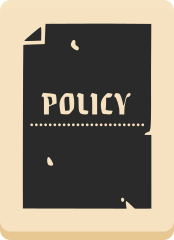
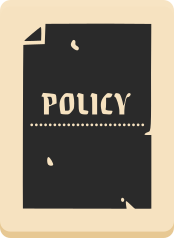
Fixed several small bugs -Fixed bug where executing the next president after a special election would still allow them to choose a chancellor -Fixed bug where the Investigation Prompt was not shown correctly -Decreased height of the Policy Back image

diff --git a/secret-hitler-online-interface/src/App.js b/secret-hitler-online-interface/src/App.js
@@ -62,7 +62,7 @@ import {
     STATE_LIBERAL_VICTORY_EXECUTION,
     STATE_LIBERAL_VICTORY_POLICY,
     PARAM_PEEK,
-    PARAM_INVESTIGATION, HITLER
+    PARAM_INVESTIGATION, HITLER, PARAM_DRAW_DECK, PARAM_DISCARD_DECK
 } from "./GlobalDefinitions";
 
 import PlayerDisplay, {
@@ -104,7 +104,7 @@ class App extends Component {
     constructor(props) {
         super(props);
         this.state = {
-            page:PAGE.GAME,
+            page:PAGE.LOGIN,
 
             joinName:"",
             joinLobby:"",
@@ -275,14 +275,16 @@ class App extends Component {
                 break;
 
             case PACKET_INVESTIGATION:
-                this.queueAlert(
-                    <ButtonPrompt
-                        label={"INVESTIGATE LOYALTY"}
-                        headerText={"Sorry, this one is still being implemented."}
-                        footerText={"The player is a " + message[PARAM_INVESTIGATION]}
-                        buttonOnClick={this.hideAlertAndFinish}
+                    let target = this.state.gameState[PARAM_TARGET];
+                    // Set party according to liberal/fascist
+                    let party = (this.state.gameState[PARAM_PLAYERS][target][PLAYER_IDENTITY] === LIBERAL ? LIBERAL : FASCIST);
+
+                    this.queueAlert(
+                    <InvestigationAlert party={party}
+                                        target={target}
+                                        hideAlert={this.hideAlertAndFinish}
                     />
-                , false);
+                    , false);
                 break;
             default:
                 // Unrecognized.
@@ -644,7 +646,7 @@ class App extends Component {
             }
 
 
-            // Update the board with the new policies / election tracker.
+            // Update the decks, board with the new policies / election tracker.
             this.addAnimationToQueue(() => {
                 this.setState({
                     liberalPolicies: newState[PARAM_LIBERAL_POLICIES],
@@ -866,17 +868,6 @@ class App extends Component {
                                         />
                                     </ButtonPrompt>
                                 )
-                            } else { // is President
-                                let target = newState[PARAM_TARGET];
-                                // Set party according to liberal/fascist
-                                let party = (newState[PARAM_PLAYERS][target][PLAYER_IDENTITY] === LIBERAL ? LIBERAL : FASCIST);
-
-                                this.queueAlert(
-                                    <InvestigationAlert party={party}
-                                                        target={target}
-                                                        hideAlert={this.hideAlertAndFinish}
-                                    />
-                                , false);
                             }
                             break;
                         case STATE_PP_PEEK: // No additional case is necessary for peeking.
@@ -970,11 +961,14 @@ class App extends Component {
 
         }
 
-        // Check for change in policy counts.
-        this.setState({
-            liberalPolicies: newState[PARAM_LIBERAL_POLICIES],
-            fascistPolicies: newState[PARAM_FASCIST_POLICIES],
-        })
+        // Update the draw decks
+        this.addAnimationToQueue(() => {
+            this.setState({
+                drawDeckSize: newState[PARAM_DRAW_DECK],
+                discardDeckSize: newState[PARAM_DISCARD_DECK],
+            });
+            this.onAnimationFinish();
+        });
     }
 
     //// Animation Handling
@@ -1217,16 +1211,6 @@ class App extends Component {
                 <div style={{textAlign:"center"}}>
                     <div id="snackbar">{this.state.snackbarMessage}</div>
                 </div>
-
-                <button
-                    onClick={this.testAlert}
-                >Show Alert</button>
-
-                <button
-                    onClick={this.playAnimationTest}>
-                    Test Animation
-                </button>
-
             </div>
         );
     }

diff --git a/secret-hitler-online-interface/src/GlobalDefinitions.js b/secret-hitler-online-interface/src/GlobalDefinitions.js
@@ -103,6 +103,8 @@ export const PARAM_ELEC_TRACKER_ADVANCED = "election-tracker-advanced";
 export const PARAM_VOTES = "user-votes";
 export const PARAM_LIBERAL_POLICIES = "liberal-policies";
 export const PARAM_FASCIST_POLICIES = "fascist-policies";
+export const PARAM_DRAW_DECK = "draw-size";
+export const PARAM_DISCARD_DECK = "discard-size";
 export const PARAM_PRESIDENT_CHOICES = "president-choices";
 export const PARAM_CHANCELLOR_CHOICES = "chancellor-choices";
 

diff --git a/src/main/java/game/SecretHitlerGame.java b/src/main/java/game/SecretHitlerGame.java
@@ -491,6 +491,11 @@ public class SecretHitlerGame {
             electedPresident = null;
         } else if (nextPresident != null) { // Once the PRESIDENTIAL_POWER_ELECTION round concludes, returns to the normal order.
             currentPresident = nextPresident;
+            while (!getPlayer(currentPresident).isAlive()) {
+                // Advance to the next president
+                int presIndex = indexOfPlayer(currentPresident);
+                currentPresident = getPlayerList().get(presIndex + 1).getUsername();
+            }
             nextPresident = null;
         } else { // advance the presidency
             // Advance presidency:
